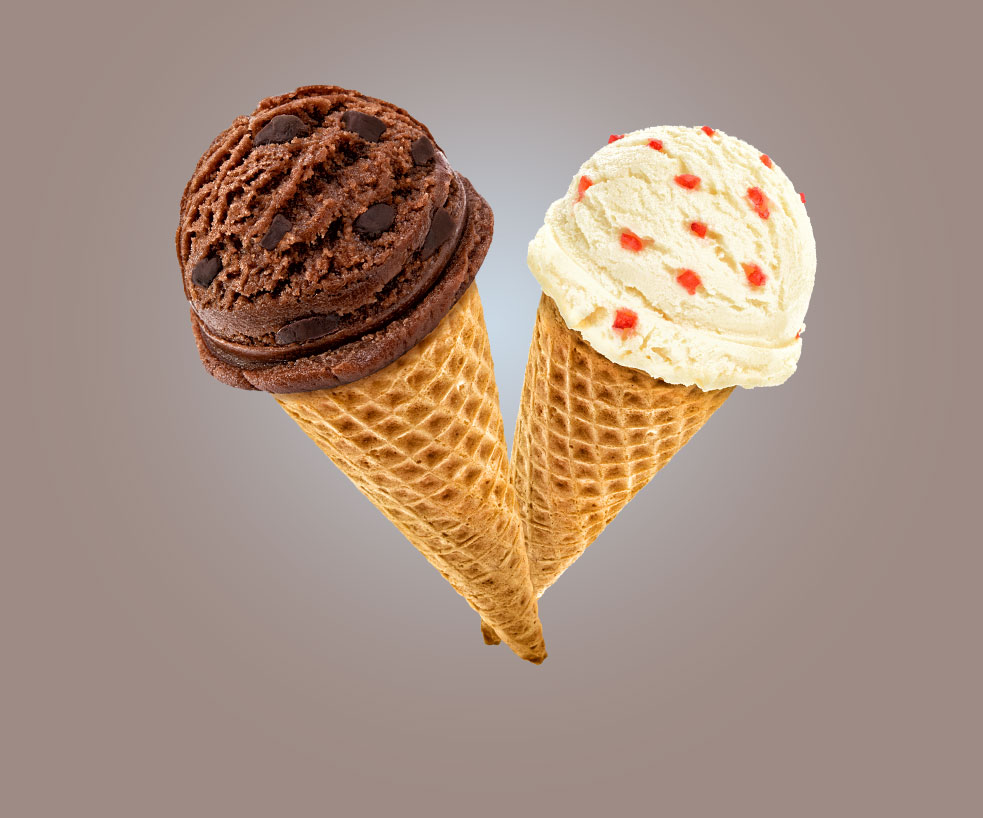
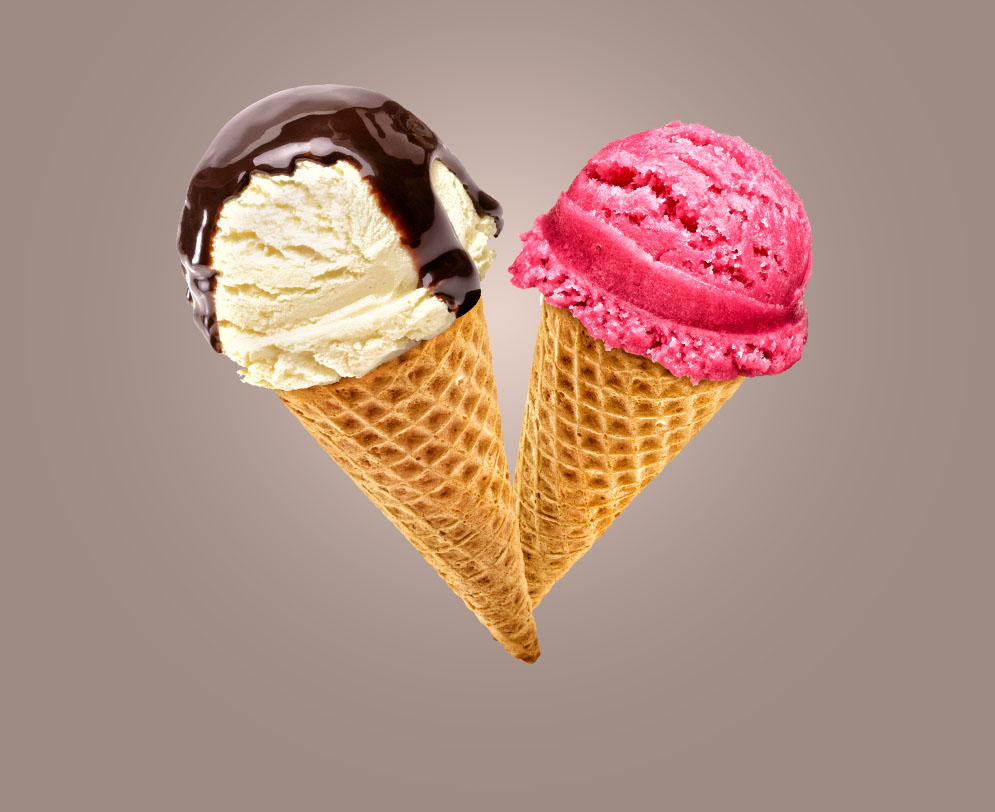
Декоративные элементы promo
Скорректирована работа слайдера.

Changed region(s): [[0.1526, 0.0924, 0.8545, 0.8313]]

diff --git a/css/style.css b/css/style.css
@@ -718,7 +718,7 @@ input[type=radio] {
 }
 
 .promo-slider-slides {
-	display: flex;
+	display: none;
 	flex-direction: column;
 	justify-content: flex-end;
 	align-items: center;
@@ -729,12 +729,24 @@ input[type=radio] {
 	height: 490px;
 }
 
-.slides {
+#promo-1:checked ~ .page-wrapper .promo-slider-slides:nth-child(1) {
+	display: flex;
+}
+
+#promo-2:checked ~ .page-wrapper .promo-slider-slides:nth-child(2) {
+	display: flex;
+}
+
+#promo-3:checked ~ .page-wrapper .promo-slider-slides:nth-child(3) {
+	display: flex;
+}
+
+/*.slides {
 	display: flex;
 	flex-basis: 1200px;
 	align-items: center;
     transition: transform 0.8s ease;
-}
+}*/
 
 .banners {
 	display: flex;
@@ -768,7 +780,20 @@ input[type=radio] {
 	position: relative;
 	height: 325px;
 	text-align: center;
-	overflow: hidden;
+	/*overflow: hidden;*/
+	position: relative;
+}
+
+.catalog-item::before {
+	background-color: rgba(255, 255, 255, 0.2);
+	border-radius: 5px;
+	height: 405px;
+	top: -7px;
+  	right: -14px;
+  	bottom: -36px;
+  	left: -14px;
+  	display: none;
+  	content: '';
 }
 
 .catalog-item img {
@@ -781,7 +806,7 @@ input[type=radio] {
 	padding: 10px;
 }
 
-.hit::before {
+.hit::after {
 	content: "";
 	position: absolute;
 	width: 62px;
@@ -793,14 +818,21 @@ input[type=radio] {
 	background-position: 0 0;
 	background-color: #fff;
 	border-radius: 50%;
+	z-index: 11;
 }
 
-.catalog-item:hover,
-.catalog-item:focus {
-	background-color: rgba(255, 255, 255, 0.2);
+.catalog-item:hover::before,
+.catalog-item:focus::before {
+	/*background-color: rgba(255, 255, 255, 0.2);
 	border-radius: 5px;
 	height: 405px;
-	overflow: visible;
+	overflow: visible;*/
+	display: block;
+}
+
+.catalog-item:hover > * {
+  position: relative;
+  z-index: 10;
 }
 
 .pagination {

diff --git a/index.html b/index.html
@@ -76,11 +76,11 @@
 						<a class="btn btn-shop-now" href="">Давайте оба!</a>
 					</div>
 					<div class="promo-slider-slides">
-						<h1 class="promo-heading">Шоколадный пломбир и лимонный сорбет</h1>
+						<h1 class="h1-heading promo-heading">Шоколадный пломбир и лимонный сорбет</h1>
 						<a class="btn btn-shop-now" href="">Давайте оба!</a>
 					</div>
 					<div class="promo-slider-slides">
-						<h1 class="promo-heading">Пломбир с помадкой и клубничный щербет</h1>
+						<h1 class="h1-heading promo-heading">Пломбир с помадкой и клубничный щербет</h1>
 						<a class="btn btn-shop-now" href="">Давайте оба!</a>
 					</div>
 				</div>
